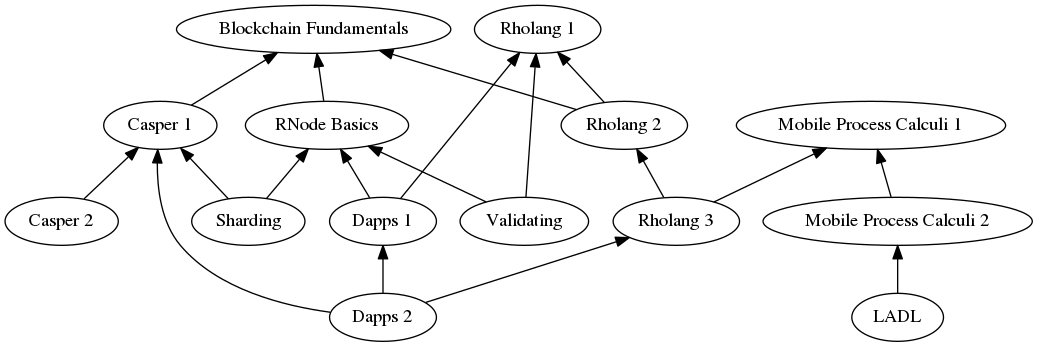
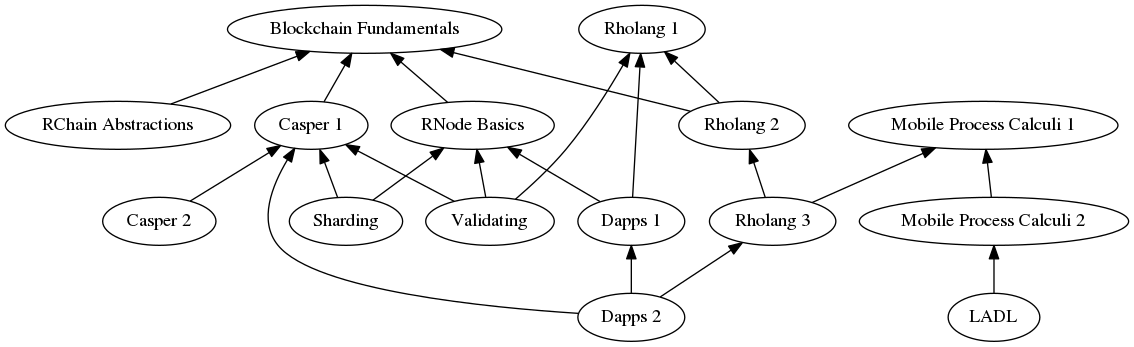
Updates to knowledge graph at Jack's suggestion.

diff --git a/elearning/README.md b/elearning/README.md
@@ -17,6 +17,10 @@ We won't cover this material until later or never
 * Longest Chain
 * Proof of Work
 
+### RChain Abstractions
+* RSpace
+* Casper
+
 ### Rholang 1
 * Send and Receive
 * Quoting and unquoting with `@` and `*`
@@ -62,7 +66,7 @@ We won't cover this material until later or never
 * Depository / Mint
 * Ethereum's attempts
 * Multi-parent model
-* Lattice model
+* Old Lattice model / namespaces
 
 ### Dapps 1
 * Nth caller example
@@ -71,8 +75,8 @@ We won't cover this material until later or never
 * **Project:** Build a mineable coin like 0xbitcoin
 
 ### Dapps 2
-*
-*
+* Cost model
+* Phlogiston dimensions
 * **Project:** Make your own REV:alt order book.
 
 
